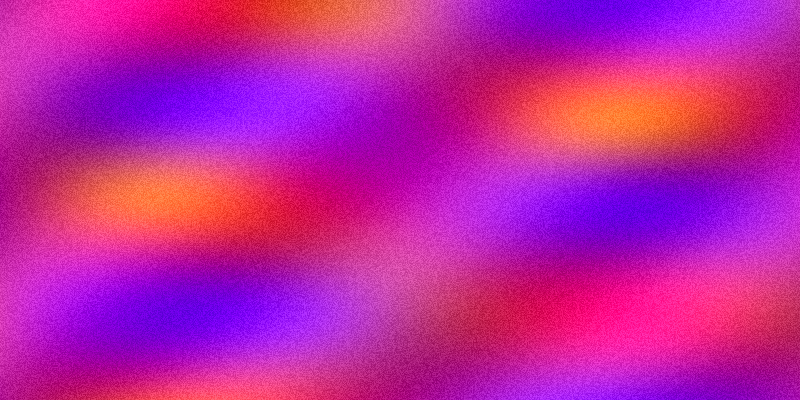
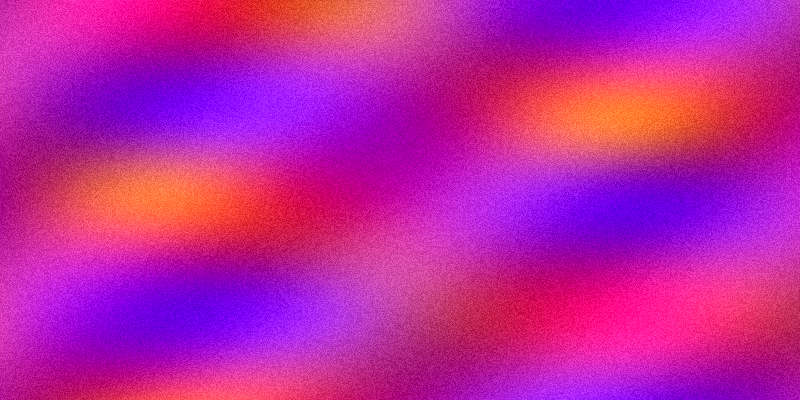
Add SEO share images and GitHub link
- Generated OG images (1200x630) for all posts and homepage
- Added Open Graph and Twitter Card meta tags to all pages
- Updated content schema to include optional ogImage field
- Added ogImage URLs to all post frontmatter
- Added footer link to GitHub repository on all pages
- Updated image generation script to create both preview and OG sizes
- Removed ", maybe" from snake post title per voice guidelines

🤖 Generated with [Claude Code](https://claude.com/claude-code)

Changed region(s): [[0.0, 0.0, 1.0, 1.0]]

diff --git a/src/content/config.ts b/src/content/config.ts
@@ -6,6 +6,7 @@ const posts = defineCollection({
     title: z.string(),
     date: z.coerce.date(),
     tagline: z.string().optional(),
+    ogImage: z.string().optional(),
   }),
 });
 

diff --git a/src/content/posts/example.md b/src/content/posts/example.md
@@ -2,6 +2,7 @@
 title: "transmission test, or something like it"
 date: 2025-10-21
 tagline: "whether meaning emerges remains to be seen"
+ogImage: "/pizzatownbuffet/images/og-example.png"
 ---
 
 # pizzatownbuffet exists, allegedly

diff --git a/src/content/posts/rhythm-and-tides.md b/src/content/posts/rhythm-and-tides.md
@@ -2,6 +2,7 @@
 title: "tides and rhythm, supposedly related"
 date: 2025-10-21
 tagline: "the moon pulls, or so they say"
+ogImage: "/pizzatownbuffet/images/og-rhythm-tides.png"
 ---
 
 # tides and rhythm, supposedly related
